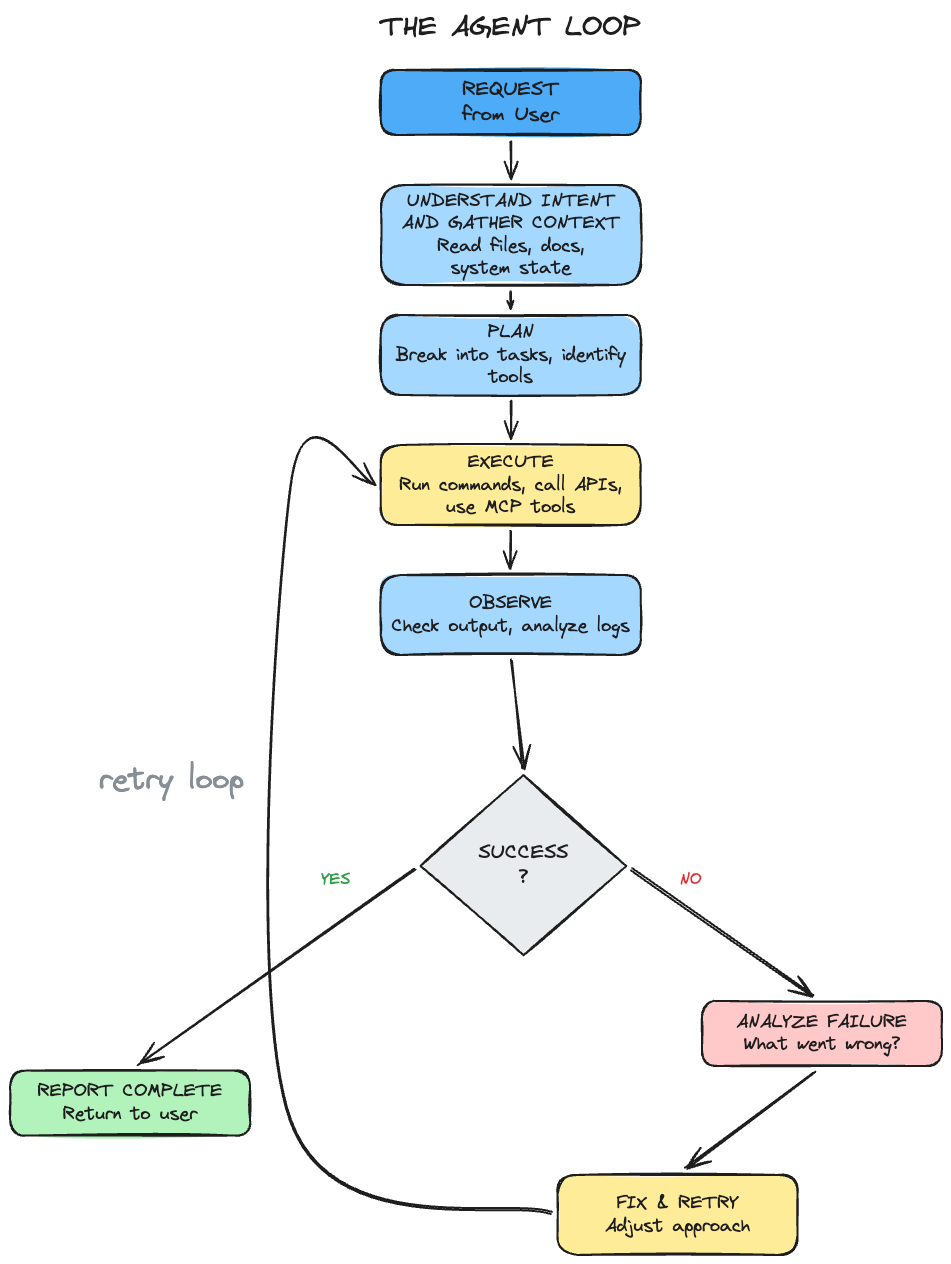
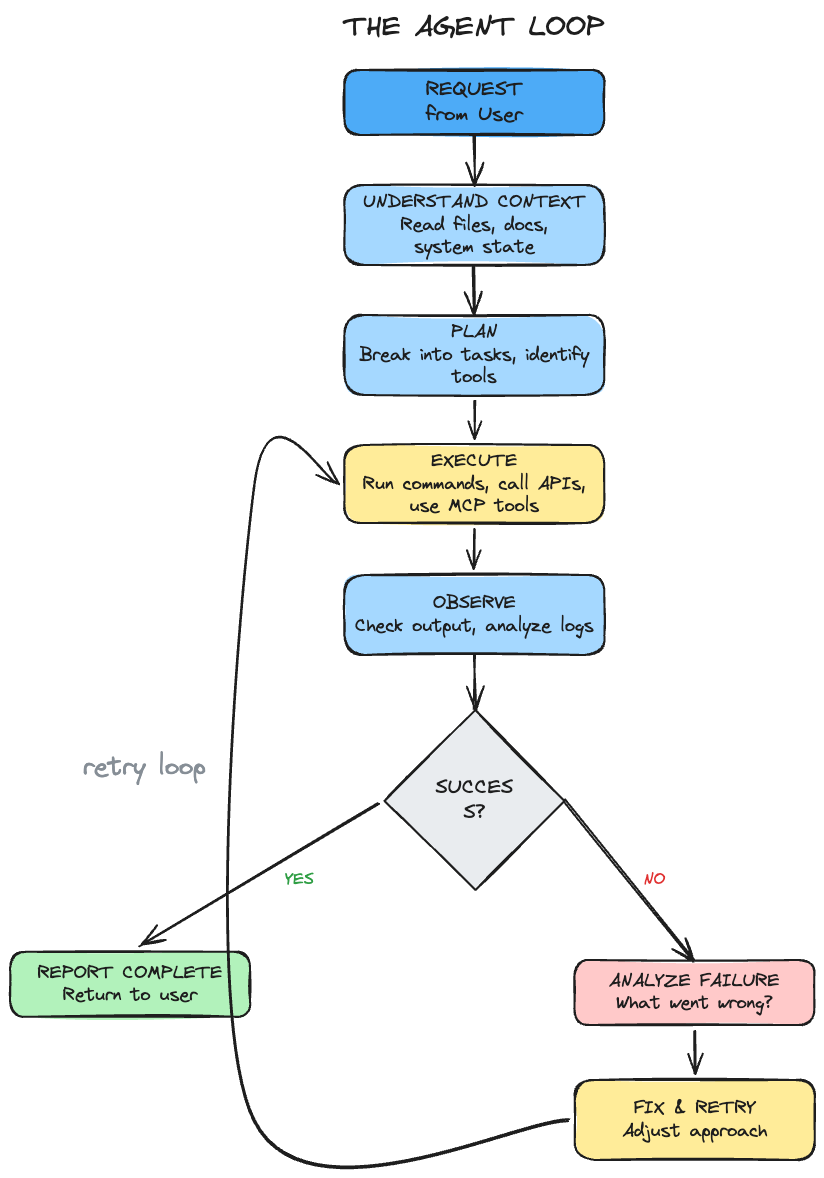
Update article: insurance example, LinkedIn post, image fixes
- Replace refund example with insurance claim workflow
- Rewrite LinkedIn post with new hook and structure
- Update agent loop diagram (Analyze Request box)
- Constrain image widths in markdown
- Remove redundant diagram description line
- Rephrase closing lines

diff --git a/articles/2026/agent-loops/agent-loops.md b/articles/2026/agent-loops/agent-loops.md
@@ -12,7 +12,7 @@ Feedback loops have existed for decades. Systems in robotics and reinforcement l
 
 ## The Agent Loop
 
-![The Agent Loop](images/Agent-loops-excalidraw.png)
+<img src="images/Agent-loops-excalidraw.png" alt="The Agent Loop" width="600">
 
 The key difference from traditional prompt-based systems is that reasoning happens repeatedly inside this loop. The model is not producing a single answer. It continuously evaluates progress toward the goal and adapts its plan based on real-world feedback.
 
@@ -32,9 +32,9 @@ With an agent loop, you file the claim once. The system pulls your policy detail
 
 The difference is not smarter answers. It is the ability to act.
 
-![Enterprise Agent Architecture](images/enterprise-architecture.png)
+<img src="images/enterprise-architecture.png" alt="Enterprise Agent Architecture" width="600">
 
-An agent that understands intent, is context-aware of the entire enterprise, has access to the right tools, and does not just answer but acts. Then comes back to tell you the task is complete. The diagram also shows what production systems need: shared memory across agents, guardrails on retries and cost, and the ability to escalate to a human when confidence is low.
+An agent that understands intent, is context-aware of the entire enterprise, has access to the right tools, and does not just answer but acts. Then comes back to tell you the task is complete.
 
 ## Realistic Constraints
 
@@ -44,7 +44,7 @@ Agent loops can get stuck in repeated attempts, burn through tokens on dead-end 
 
 In production, engineers add limits on iterations, execution time, and cost budgets. Equally important is knowing when to pull a human back into the loop. Full autonomy is not always the right answer. The best systems are designed to escalate when confidence is low or when the stakes are high.
 
-So how do you build systems that are both autonomous and trustworthy?
+So, the effort should be towards building systems that are both autonomous and trustworthy.
 
 ## What Comes Next
 
